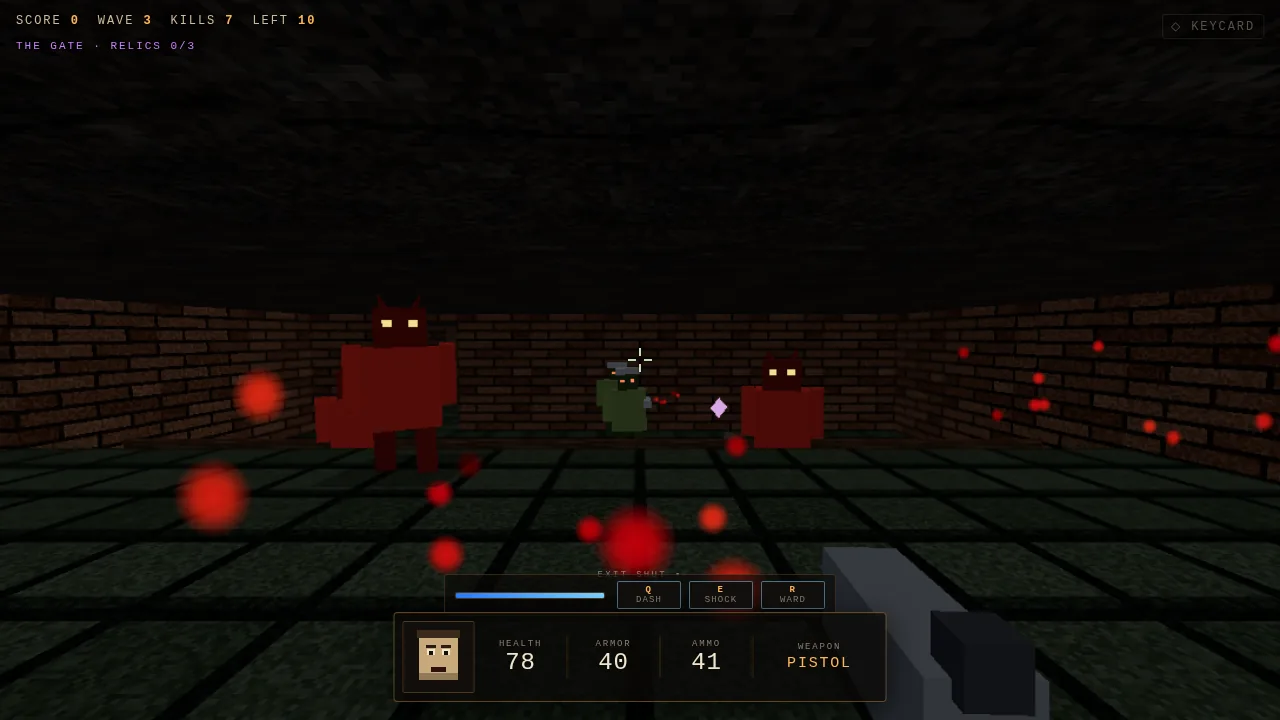
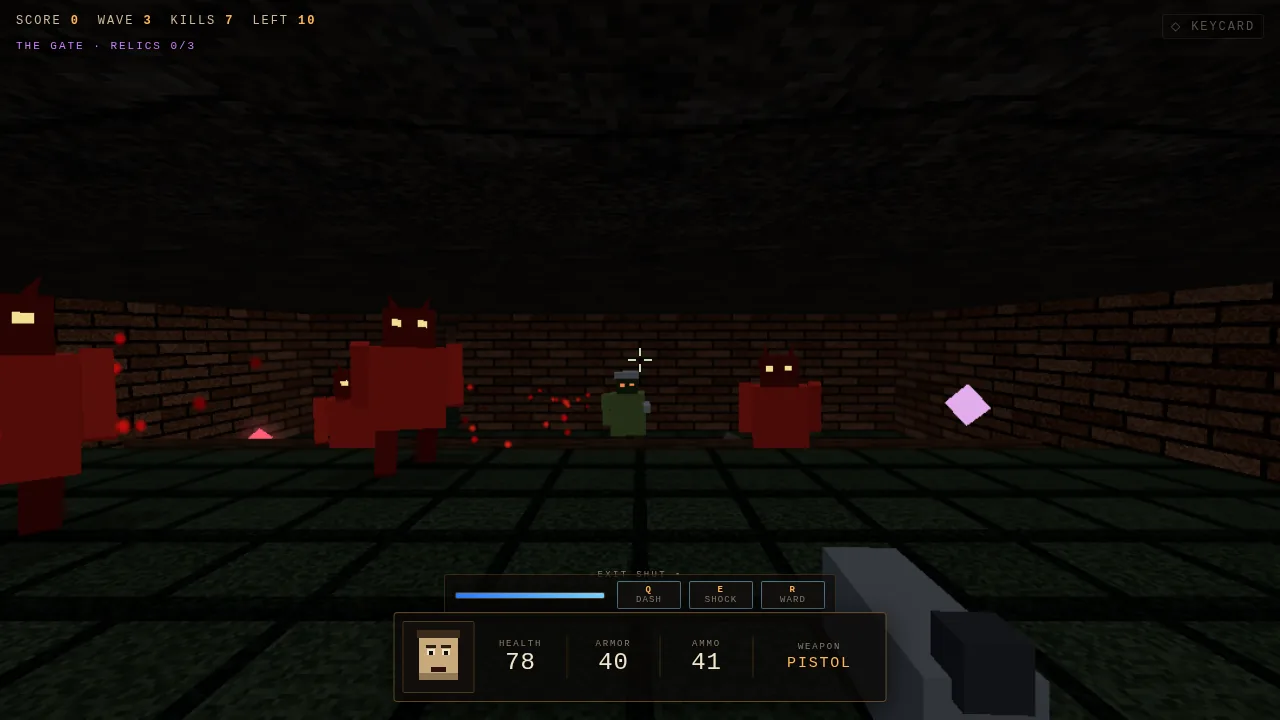
fix: enemies through walls — the body was wider than the collision circle — 1.26.0
The report was right and my earlier test looked in the wrong place: it checked
whether an enemy's centre was in a solid cell, which never happens.

Measured with Box3.setFromObject in a browser:
  imp   radius 0.45  body 1.21 wide  -> poked out by 0.16 m
  grunt radius 0.42  body 0.99 wide  -> 0.08 m
  hound radius 0.36  body 1.25 wide  -> 0.27 m

Radii are now the measured half-widths (0.62, 0.52, 0.64). depenetrate() runs
every frame as a safety net: a body inside rock is walked to the nearest open
cell and counted.

9 new assertions.

diff --git a/play/src/enemies.js b/play/src/enemies.js
@@ -10,7 +10,7 @@ const STATE = { IDLE: 'IDLE', CHASE: 'CHASE', ATTACK: 'ATTACK', PAIN: 'PAIN', DE
 
 const TYPES = {
   imp: {
-    hp: 55, speed: 2.5, radius: 0.45, height: 1.85, hitRadius: 0.62,
+    hp: 55, speed: 2.5, radius: 0.62, height: 1.85, hitRadius: 0.62,
     attackRange: 14, attackCd: 2.1, telegraph: 0.55, damage: 15,
     melee: false, sight: 22, color: 0x8a3524, label: 'IMP', pitch: 1.0,
   },
@@ -21,12 +21,12 @@ const TYPES = {
     boss: true,
   },
   hound: {
-    hp: 22, speed: 4.4, radius: 0.36, height: 1.05, hitRadius: 0.45,
+    hp: 22, speed: 4.4, radius: 0.64, height: 1.05, hitRadius: 0.45,
     attackRange: 2.4, attackCd: 0.9, telegraph: 0.25, damage: 9,
     melee: true, meleeRange: 1.9, meleeDamage: 11, sight: 26, color: 0x8a1f6a, label: 'HOUND', pitch: 1.45,
   },
   grunt: {
-    hp: 40, speed: 3.3, radius: 0.42, height: 1.7, hitRadius: 0.55,
+    hp: 40, speed: 3.3, radius: 0.52, height: 1.7, hitRadius: 0.55,
     attackRange: 16, attackCd: 1.4, telegraph: 0.4, damage: 8,
     melee: true, meleeRange: 2.4, meleeDamage: 12, sight: 24, color: 0x53603c, label: 'GRUNT', pitch: 0.8,
   },
@@ -343,6 +343,9 @@ export class Enemy {
       return;
     }
 
+    // safety net: a body inside rock is a bug, but it should never be visible
+    if (this.depenetrate(level)) this.depenetrated = (this.depenetrated || 0) + 1;
+
     // level of detail: one slab when it is far away, the full body up close
     const lodDist = Math.hypot(player.pos.x - this.pos.x, player.pos.z - this.pos.z);
     const far = lodDist > LOD_DIST && this.state !== STATE.DEATH;
@@ -520,6 +523,33 @@ export class Enemy {
       if (this.tryMove(level, -mz * 0.7, mx * 0.7)) moved = true;
     }
     return moved;
+  }
+
+  /** If the body is inside rock, walk it to the nearest open cell centre. */
+  depenetrate(level) {
+    if (!circleBlocked(level, this.pos.x, this.pos.z, this.radius * 0.5)) return false;
+    const cx = Math.round(this.pos.x / 2);
+    const cz = Math.round(this.pos.z / 2);
+    let best = null;
+    let bestD = Infinity;
+    for (let dz = -2; dz <= 2; dz++) {
+      for (let dx = -2; dx <= 2; dx++) {
+        const nx = cx + dx;
+        const nz = cz + dz;
+        if (nx < 0 || nz < 0 || nx >= level.W || nz >= level.H) continue;
+        const c = level.cells[nz * level.W + nx];
+        if (c.solid || c.crate) continue;
+        const wx = nx * 2;
+        const wz = nz * 2;
+        const d = Math.hypot(wx - this.pos.x, wz - this.pos.z);
+        if (d < bestD) { bestD = d; best = { x: wx, z: wz }; }
+      }
+    }
+    if (!best) return false;
+    this.pos.x = best.x;
+    this.pos.z = best.z;
+    this.pos.y = floorHeightAt(level, best.x, best.z);
+    return true;
   }
 
   tryMove(level, dx, dz) {

diff --git a/play/src/main.js b/play/src/main.js
@@ -77,6 +77,7 @@ let weapons = null;
 
 const settings = clampSettings(loadSettings());
 const progress = loadProgress();
+window.__THREE = THREE; // for tools that measure the scene
 
 // A run in progress: written at the start of every wave, cleared on death or on
 // clearing a zone, offered as Continue on the title screen.

diff --git a/CHANGELOG.md b/CHANGELOG.md
@@ -1,5 +1,34 @@
 # Changelog
 
+## 1.26.0 — 2026-11-19
+
+**Enemies through walls: found, measured, fixed**
+
+The report was right and my earlier headless test was looking in the wrong place. It tested whether an
+enemy's *centre* was inside a solid cell — which never happens. The body is what the player sees.
+
+Measured with `Box3.setFromObject` in a real browser:
+
+| Type | Collision radius | Body width | Poked through walls by |
+| --- | --- | --- | --- |
+| Imp | 0.45 | 1.21 | 0.16 m |
+| Grunt | 0.42 | 0.99 | 0.08 m |
+| Hound | 0.36 | 1.25 | 0.27 m |
+
+Every enemy's shoulders and arms were inside the wall it stood beside. Collision radii are now the
+measured half-widths — 0.62, 0.52, 0.64 — so the body fits the circle it is stopped by.
+
+**Safety net** — `depenetrate()` runs every frame: if a body ever is inside rock, it is walked to the
+nearest open cell centre and counted. A body inside a wall is now a bug that corrects itself rather
+than one the player sees.
+
+**Tests** — 9 new assertions: each radius matches its body half-width, and each type is pushed out of a
+solid cell onto open floor.
+
+**Tooling** — `window.__THREE` is exposed so a browser tool can measure scene geometry; that is how the
+body widths were measured.
+
+
 ## 1.25.0 — 2026-11-19
 
 **Story mode, per zone**
